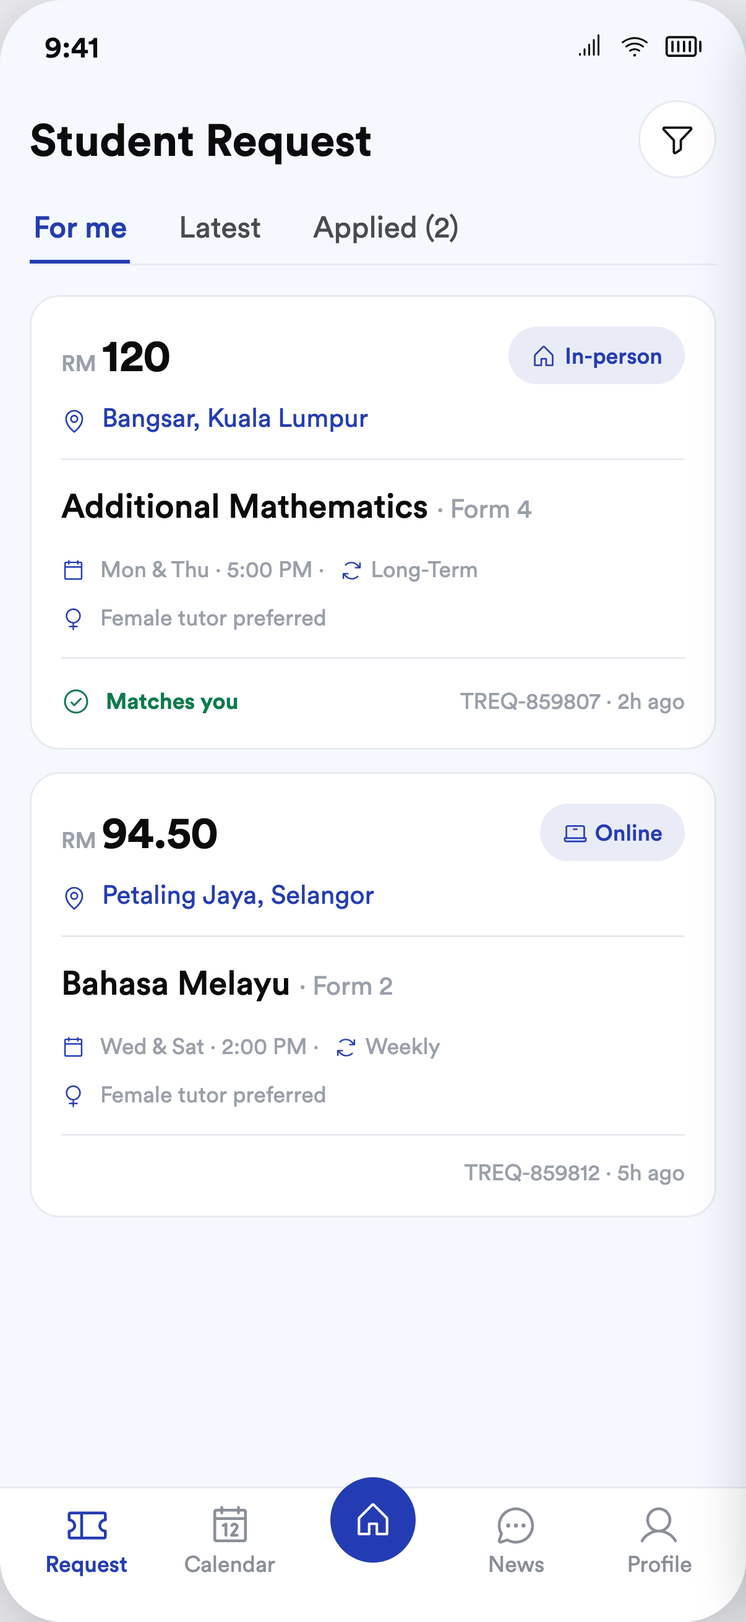
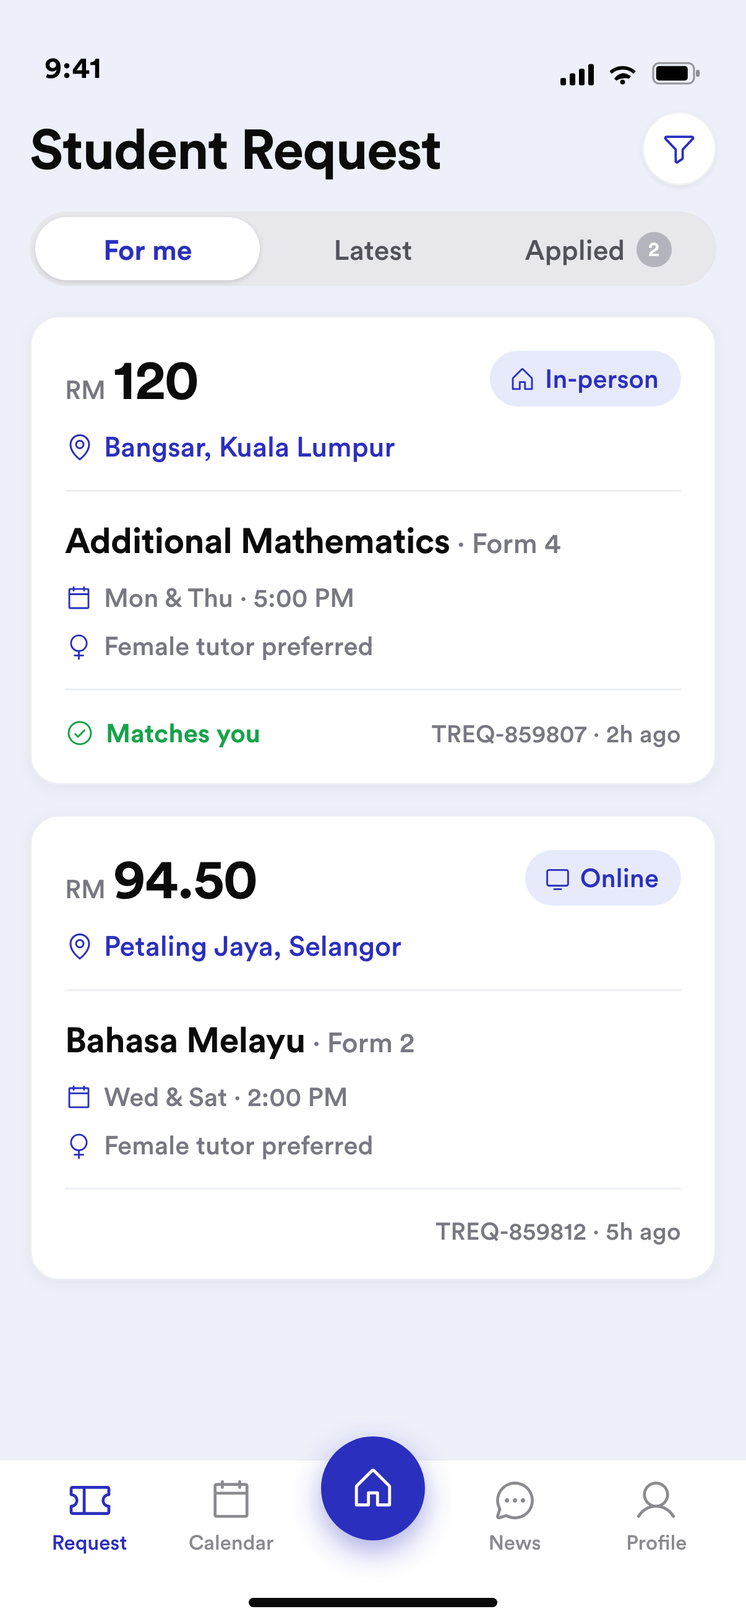
composition pilot: tutor-requests rebuilt 100% from the element kit (locked 10-Jul)
- tutorrequests-kit.html published; supersedes the pre-kit feed as the current
  design (pre-kit participate screens reconcile in a dedicated session)
- compare: TutorRequests pair repointed to the kit build (full-page shot);
  superseded pre-kit state frames removed (140 items)
- Patterns gains 'Kit composition' - the 4 founder-locked composition canon
  rules (kit segmented for feed tabs, term off feed cards, money leads,
  canonical tokens only)

diff --git a/compare/index.html b/compare/index.html
@@ -15,7 +15,7 @@
   </head>
   <body>
     <div id="app"></div>
-    <script type="text/javascript">window['__reg__'] = {"type":"danger","hasNew":true,"newItems":[{"raw":"acquire-Splash.png","encoded":"acquire-Splash.png"},{"raw":"activate-SetHomeLocationPin--autofilled.png","encoded":"activate-SetHomeLocationPin--autofilled.png"},{"raw":"activate-SetHomeLocationPin--picker.png","encoded":"activate-SetHomeLocationPin--picker.png"},{"raw":"activate-SetHomeLocationPin.png","encoded":"activate-SetHomeLocationPin.png"},{"raw":"activate-SetTeachingArea--online.png","encoded":"activate-SetTeachingArea--online.png"},{"raw":"activate-SetTeachingArea--set-area.png","encoded":"activate-SetTeachingArea--set-area.png"},{"raw":"activate-SetTeachingArea.png","encoded":"activate-SetTeachingArea.png"},{"raw":"deliver-ActiveClassClockIn.png","encoded":"deliver-ActiveClassClockIn.png"},{"raw":"deliver-ActiveClassClockOut.png","encoded":"deliver-ActiveClassClockOut.png"},{"raw":"deliver-ActiveClassDone.png","encoded":"deliver-ActiveClassDone.png"},{"raw":"deliver-ActiveClassPreClass.png","encoded":"deliver-ActiveClassPreClass.png"},{"raw":"deliver-CameraScreen.png","encoded":"deliver-CameraScreen.png"},{"raw":"participate-ApplyConfirmSheet.png","encoded":"participate-ApplyConfirmSheet.png"},{"raw":"participate-LocationPinSheet.png","encoded":"participate-LocationPinSheet.png"},{"raw":"participate-SubjectPicker.png","encoded":"participate-SubjectPicker.png"}],"hasDeleted":false,"deletedItems":[],"hasPassed":false,"passedItems":[],"hasFailed":true,"failedItems":[{"raw":"acquire-Login--filled-busy.png","encoded":"acquire-Login--filled-busy.png"},{"raw":"acquire-Login--invalid.png","encoded":"acquire-Login--invalid.png"},{"raw":"acquire-Login--login-mode.png","encoded":"acquire-Login--login-mode.png"},{"raw":"acquire-Login.png","encoded":"acquire-Login.png"},{"raw":"acquire-OnBoarding--slide-2.png","encoded":"acquire-OnBoarding--slide-2.png"},{"raw":"acquire-OnBoarding--slide-3.png","encoded":"acquire-OnBoarding--slide-3.png"},{"raw":"acquire-OnBoarding.png","encoded":"acquire-OnBoarding.png"},{"raw":"acquire-VerifyCode--counting.png","encoded":"acquire-VerifyCode--counting.png"},{"raw":"acquire-VerifyCode--verifying.png","encoded":"acquire-VerifyCode--verifying.png"},{"raw":"acquire-VerifyCode--wrong-otp.png","encoded":"acquire-VerifyCode--wrong-otp.png"},{"raw":"acquire-VerifyCode.png","encoded":"acquire-VerifyCode.png"},{"raw":"activate-AvailabilitySlots.png","encoded":"activate-AvailabilitySlots.png"},{"raw":"activate-BioDetails.png","encoded":"activate-BioDetails.png"},{"raw":"activate-ConsentGate.png","encoded":"activate-ConsentGate.png"},{"raw":"activate-EducationDetails.png","encoded":"activate-EducationDetails.png"},{"raw":"activate-EmergencyContact.png","encoded":"activate-EmergencyContact.png"},{"raw":"activate-IntroVideoUpload.png","encoded":"activate-IntroVideoUpload.png"},{"raw":"activate-ParentApprovalConfirmation.png","encoded":"activate-ParentApprovalConfirmation.png"},{"raw":"activate-ServicePreferenceStep1--first-run.png","encoded":"activate-ServicePreferenceStep1--first-run.png"},{"raw":"activate-ServicePreferenceStep1.png","encoded":"activate-ServicePreferenceStep1.png"},{"raw":"activate-ServicePreferenceStep2.png","encoded":"activate-ServicePreferenceStep2.png"},{"raw":"activate-TutorVerificationProcess--complete.png","encoded":"activate-TutorVerificationProcess--complete.png"},{"raw":"activate-TutorVerificationProcess--under-review.png","encoded":"activate-TutorVerificationProcess--under-review.png"},{"raw":"activate-TutorVerificationProcess.png","encoded":"activate-TutorVerificationProcess.png"},{"raw":"activate-UnverifyScreen.png","encoded":"activate-UnverifyScreen.png"},{"raw":"activate-UpdateProfile--arrival.png","encoded":"activate-UpdateProfile--arrival.png"},{"raw":"activate-UpdateProfile.png","encoded":"activate-UpdateProfile.png"},{"raw":"activate-VerificationDocumentsUpload.png","encoded":"activate-VerificationDocumentsUpload.png"},{"raw":"activate-VerificationSubmittedSuccess.png","encoded":"activate-VerificationSubmittedSuccess.png"},{"raw":"deliver-ActiveClass.png","encoded":"deliver-ActiveClass.png"},{"raw":"deliver-AddClassSchedule--manual-dates.png","encoded":"deliver-AddClassSchedule--manual-dates.png"},{"raw":"deliver-AddClassSchedule--pattern-builder.png","encoded":"deliver-AddClassSchedule--pattern-builder.png"},{"raw":"deliver-AddClassSchedule--pattern-clash.png","encoded":"deliver-AddClassSchedule--pattern-clash.png"},{"raw":"deliver-AddClassSchedule--schedule-suggestion.png","encoded":"deliver-AddClassSchedule--schedule-suggestion.png"},{"raw":"deliver-AddClassSchedule--student-picker.png","encoded":"deliver-AddClassSchedule--student-picker.png"},{"raw":"deliver-AddClassSchedule--success.png","encoded":"deliver-AddClassSchedule--success.png"},{"raw":"deliver-AddClassSchedule.png","encoded":"deliver-AddClassSchedule.png"},{"raw":"deliver-BackdateEscalationSuccess.png","encoded":"deliver-BackdateEscalationSuccess.png"},{"raw":"deliver-ClassDetailByNotification.png","encoded":"deliver-ClassDetailByNotification.png"},{"raw":"deliver-ClassPostponeSuccess.png","encoded":"deliver-ClassPostponeSuccess.png"},{"raw":"deliver-ClassRecordFilter.png","encoded":"deliver-ClassRecordFilter.png"},{"raw":"deliver-ClassRecords--filtered-empty.png","encoded":"deliver-ClassRecords--filtered-empty.png"},{"raw":"deliver-ClassRecords--not-found.png","encoded":"deliver-ClassRecords--not-found.png"},{"raw":"deliver-ClassRecords.png","encoded":"deliver-ClassRecords.png"},{"raw":"deliver-ClassSchedule--day-with-class.png","encoded":"deliver-ClassSchedule--day-with-class.png"},{"raw":"deliver-ClassSchedule--empty-day.png","encoded":"deliver-ClassSchedule--empty-day.png"},{"raw":"deliver-ClassSchedule--month-expanded.png","encoded":"deliver-ClassSchedule--month-expanded.png"},{"raw":"deliver-ClassSchedule--past-day-done.png","encoded":"deliver-ClassSchedule--past-day-done.png"},{"raw":"deliver-ClassSchedule.png","encoded":"deliver-ClassSchedule.png"},{"raw":"deliver-ClassScheduleAdded.png","encoded":"deliver-ClassScheduleAdded.png"},{"raw":"deliver-EditPostponedClass.png","encoded":"deliver-EditPostponedClass.png"},{"raw":"deliver-ExtraClass.png","encoded":"deliver-ExtraClass.png"},{"raw":"deliver-StudentTasks--reports-filter.png","encoded":"deliver-StudentTasks--reports-filter.png"},{"raw":"earn-MyReferralEarnings.png","encoded":"earn-MyReferralEarnings.png"},{"raw":"earn-Payment--awaiting.png","encoded":"earn-Payment--awaiting.png"},{"raw":"earn-Payment--filter-sheet.png","encoded":"earn-Payment--filter-sheet.png"},{"raw":"earn-Payment--history-month.png","encoded":"earn-Payment--history-month.png"},{"raw":"earn-Payment.png","encoded":"earn-Payment.png"},{"raw":"earn-PaymentLedger.png","encoded":"earn-PaymentLedger.png"},{"raw":"earn-PendingEarningsDetail.png","encoded":"earn-PendingEarningsDetail.png"},{"raw":"earn-ReferFriend.png","encoded":"earn-ReferFriend.png"},{"raw":"engage-Home.png","encoded":"engage-Home.png"},{"raw":"news-News--empty.png","encoded":"news-News--empty.png"},{"raw":"news-News.png","encoded":"news-News.png"},{"raw":"news-NewsDetails.png","encoded":"news-NewsDetails.png"},{"raw":"news-Notifications--empty.png","encoded":"news-Notifications--empty.png"},{"raw":"news-Notifications.png","encoded":"news-Notifications.png"},{"raw":"participate-JTDetailByNotification.png","encoded":"participate-JTDetailByNotification.png"},{"raw":"participate-MyRequestsList--empty.png","encoded":"participate-MyRequestsList--empty.png"},{"raw":"participate-MyRequestsList.png","encoded":"participate-MyRequestsList.png"},{"raw":"participate-RecommendedRequestDetail.png","encoded":"participate-RecommendedRequestDetail.png"},{"raw":"participate-RequestDetailById.png","encoded":"participate-RequestDetailById.png"},{"raw":"participate-RequestDetails.png","encoded":"participate-RequestDetails.png"},{"raw":"participate-RequestFilters--location-open.png","encoded":"participate-RequestFilters--location-open.png"},{"raw":"participate-RequestFilters--subject-open.png","encoded":"participate-RequestFilters--subject-open.png"},{"raw":"participate-RequestFilters.png","encoded":"participate-RequestFilters.png"},{"raw":"participate-TutorAppliedRequestDetails--unavailable.png","encoded":"participate-TutorAppliedRequestDetails--unavailable.png"},{"raw":"participate-TutorAppliedRequestDetails.png","encoded":"participate-TutorAppliedRequestDetails.png"},{"raw":"participate-TutorRequests--new-chip.png","encoded":"participate-TutorRequests--new-chip.png"},{"raw":"participate-TutorRequests--scrolled.png","encoded":"participate-TutorRequests--scrolled.png"},{"raw":"participate-TutorRequests.png","encoded":"participate-TutorRequests.png"},{"raw":"participate-TutorTaskList--empty.png","encoded":"participate-TutorTaskList--empty.png"},{"raw":"participate-TutorTaskList.png","encoded":"participate-TutorTaskList.png"},{"raw":"profile-Profile--complete.png","encoded":"profile-Profile--complete.png"},{"raw":"profile-Profile.png","encoded":"profile-Profile.png"},{"raw":"profile-ProfileMenu--new-tutor.png","encoded":"profile-ProfileMenu--new-tutor.png"},{"raw":"profile-ProfileMenu.png","encoded":"profile-ProfileMenu.png"},{"raw":"profile-Status--reason-picker.png","encoded":"profile-Status--reason-picker.png"},{"raw":"profile-Status.png","encoded":"profile-Status.png"},{"raw":"report-EvaluationReport--review.png","encoded":"report-EvaluationReport--review.png"},{"raw":"report-EvaluationReport--step-1.png","encoded":"report-EvaluationReport--step-1.png"},{"raw":"report-EvaluationReport--step-2.png","encoded":"report-EvaluationReport--step-2.png"},{"raw":"report-EvaluationReport--step-3.png","encoded":"report-EvaluationReport--step-3.png"},{"raw":"report-EvaluationReport.png","encoded":"report-EvaluationReport.png"},{"raw":"report-EvaluationReportSuccess.png","encoded":"report-EvaluationReportSuccess.png"},{"raw":"report-ProgressReport--parent-summary.png","encoded":"report-ProgressReport--parent-summary.png"},{"raw":"report-ProgressReport--step-1-observation.png","encoded":"report-ProgressReport--step-1-observation.png"},{"raw":"report-ProgressReport--step-2-performance.png","encoded":"report-ProgressReport--step-2-performance.png"},{"raw":"report-ProgressReport--step-3-attitude.png","encoded":"report-ProgressReport--step-3-attitude.png"},{"raw":"report-ProgressReport.png","encoded":"report-ProgressReport.png"},{"raw":"report-ProgressReportSuccess.png","encoded":"report-ProgressReportSuccess.png"},{"raw":"report-StudentReport--empty.png","encoded":"report-StudentReport--empty.png"},{"raw":"report-StudentReport.png","encoded":"report-StudentReport.png"},{"raw":"static-FAQs--topic-expanded.png","encoded":"static-FAQs--topic-expanded.png"},{"raw":"static-FAQs.png","encoded":"static-FAQs.png"},{"raw":"static-PrivacyPolicy.png","encoded":"static-PrivacyPolicy.png"},{"raw":"static-TermAndConditions.png","encoded":"static-TermAndConditions.png"},{"raw":"students-StudentList--empty.png","encoded":"students-StudentList--empty.png"},{"raw":"students-StudentList.png","encoded":"students-StudentList.png"},{"raw":"students-StudentsDetails--online.png","encoded":"students-StudentsDetails--online.png"},{"raw":"students-StudentsDetails.png","encoded":"students-StudentsDetails.png"},{"raw":"support-ApplicationStatusDetail--suspended.png","encoded":"support-ApplicationStatusDetail--suspended.png"},{"raw":"support-ApplicationStatusDetail.png","encoded":"support-ApplicationStatusDetail.png"},{"raw":"support-Discouragement--brand-new.png","encoded":"support-Discouragement--brand-new.png"},{"raw":"support-Discouragement--delete-account.png","encoded":"support-Discouragement--delete-account.png"},{"raw":"support-Discouragement.png","encoded":"support-Discouragement.png"},{"raw":"support-SubmitRequestClassReschedule--request-sheet.png","encoded":"support-SubmitRequestClassReschedule--request-sheet.png"},{"raw":"support-SubmitRequestClassReschedule.png","encoded":"support-SubmitRequestClassReschedule.png"},{"raw":"support-SubmitRequestGeneralComplaint--category-sheet.png","encoded":"support-SubmitRequestGeneralComplaint--category-sheet.png"},{"raw":"support-SubmitRequestGeneralComplaint.png","encoded":"support-SubmitRequestGeneralComplaint.png"},{"raw":"support-SubmitRequestPicker--unverified.png","encoded":"support-SubmitRequestPicker--unverified.png"},{"raw":"support-SubmitRequestPicker.png","encoded":"support-SubmitRequestPicker.png"},{"raw":"support-SubmitRequestResignation--confirm.png","encoded":"support-SubmitRequestResignation--confirm.png"},{"raw":"support-SubmitRequestResignation--guard.png","encoded":"support-SubmitRequestResignation--guard.png"},{"raw":"support-SubmitRequestResignation.png","encoded":"support-SubmitRequestResignation.png"},{"raw":"support-TicketDetail--approved.png","encoded":"support-TicketDetail--approved.png"},{"raw":"support-TicketDetail.png","encoded":"support-TicketDetail.png"}],"actualDir":"after","expectedDir":"before","diffDir":"diff","diffImageExtention":"png","ximgdiffConfig":{"enabled":false,"workerUrl":"./worker.js"}};</script>
+    <script type="text/javascript">window['__reg__'] = {"type":"danger","hasNew":true,"newItems":[{"raw":"acquire-Splash.png","encoded":"acquire-Splash.png"},{"raw":"activate-SetHomeLocationPin--autofilled.png","encoded":"activate-SetHomeLocationPin--autofilled.png"},{"raw":"activate-SetHomeLocationPin--picker.png","encoded":"activate-SetHomeLocationPin--picker.png"},{"raw":"activate-SetHomeLocationPin.png","encoded":"activate-SetHomeLocationPin.png"},{"raw":"activate-SetTeachingArea--online.png","encoded":"activate-SetTeachingArea--online.png"},{"raw":"activate-SetTeachingArea--set-area.png","encoded":"activate-SetTeachingArea--set-area.png"},{"raw":"activate-SetTeachingArea.png","encoded":"activate-SetTeachingArea.png"},{"raw":"deliver-ActiveClassClockIn.png","encoded":"deliver-ActiveClassClockIn.png"},{"raw":"deliver-ActiveClassClockOut.png","encoded":"deliver-ActiveClassClockOut.png"},{"raw":"deliver-ActiveClassDone.png","encoded":"deliver-ActiveClassDone.png"},{"raw":"deliver-ActiveClassPreClass.png","encoded":"deliver-ActiveClassPreClass.png"},{"raw":"deliver-CameraScreen.png","encoded":"deliver-CameraScreen.png"},{"raw":"participate-ApplyConfirmSheet.png","encoded":"participate-ApplyConfirmSheet.png"},{"raw":"participate-LocationPinSheet.png","encoded":"participate-LocationPinSheet.png"},{"raw":"participate-SubjectPicker.png","encoded":"participate-SubjectPicker.png"}],"hasDeleted":false,"deletedItems":[],"hasPassed":false,"passedItems":[],"hasFailed":true,"failedItems":[{"raw":"acquire-Login--filled-busy.png","encoded":"acquire-Login--filled-busy.png"},{"raw":"acquire-Login--invalid.png","encoded":"acquire-Login--invalid.png"},{"raw":"acquire-Login--login-mode.png","encoded":"acquire-Login--login-mode.png"},{"raw":"acquire-Login.png","encoded":"acquire-Login.png"},{"raw":"acquire-OnBoarding--slide-2.png","encoded":"acquire-OnBoarding--slide-2.png"},{"raw":"acquire-OnBoarding--slide-3.png","encoded":"acquire-OnBoarding--slide-3.png"},{"raw":"acquire-OnBoarding.png","encoded":"acquire-OnBoarding.png"},{"raw":"acquire-VerifyCode--counting.png","encoded":"acquire-VerifyCode--counting.png"},{"raw":"acquire-VerifyCode--verifying.png","encoded":"acquire-VerifyCode--verifying.png"},{"raw":"acquire-VerifyCode--wrong-otp.png","encoded":"acquire-VerifyCode--wrong-otp.png"},{"raw":"acquire-VerifyCode.png","encoded":"acquire-VerifyCode.png"},{"raw":"activate-AvailabilitySlots.png","encoded":"activate-AvailabilitySlots.png"},{"raw":"activate-BioDetails.png","encoded":"activate-BioDetails.png"},{"raw":"activate-ConsentGate.png","encoded":"activate-ConsentGate.png"},{"raw":"activate-EducationDetails.png","encoded":"activate-EducationDetails.png"},{"raw":"activate-EmergencyContact.png","encoded":"activate-EmergencyContact.png"},{"raw":"activate-IntroVideoUpload.png","encoded":"activate-IntroVideoUpload.png"},{"raw":"activate-ParentApprovalConfirmation.png","encoded":"activate-ParentApprovalConfirmation.png"},{"raw":"activate-ServicePreferenceStep1--first-run.png","encoded":"activate-ServicePreferenceStep1--first-run.png"},{"raw":"activate-ServicePreferenceStep1.png","encoded":"activate-ServicePreferenceStep1.png"},{"raw":"activate-ServicePreferenceStep2.png","encoded":"activate-ServicePreferenceStep2.png"},{"raw":"activate-TutorVerificationProcess--complete.png","encoded":"activate-TutorVerificationProcess--complete.png"},{"raw":"activate-TutorVerificationProcess--under-review.png","encoded":"activate-TutorVerificationProcess--under-review.png"},{"raw":"activate-TutorVerificationProcess.png","encoded":"activate-TutorVerificationProcess.png"},{"raw":"activate-UnverifyScreen.png","encoded":"activate-UnverifyScreen.png"},{"raw":"activate-UpdateProfile--arrival.png","encoded":"activate-UpdateProfile--arrival.png"},{"raw":"activate-UpdateProfile.png","encoded":"activate-UpdateProfile.png"},{"raw":"activate-VerificationDocumentsUpload.png","encoded":"activate-VerificationDocumentsUpload.png"},{"raw":"activate-VerificationSubmittedSuccess.png","encoded":"activate-VerificationSubmittedSuccess.png"},{"raw":"deliver-ActiveClass.png","encoded":"deliver-ActiveClass.png"},{"raw":"deliver-AddClassSchedule--manual-dates.png","encoded":"deliver-AddClassSchedule--manual-dates.png"},{"raw":"deliver-AddClassSchedule--pattern-builder.png","encoded":"deliver-AddClassSchedule--pattern-builder.png"},{"raw":"deliver-AddClassSchedule--pattern-clash.png","encoded":"deliver-AddClassSchedule--pattern-clash.png"},{"raw":"deliver-AddClassSchedule--schedule-suggestion.png","encoded":"deliver-AddClassSchedule--schedule-suggestion.png"},{"raw":"deliver-AddClassSchedule--student-picker.png","encoded":"deliver-AddClassSchedule--student-picker.png"},{"raw":"deliver-AddClassSchedule--success.png","encoded":"deliver-AddClassSchedule--success.png"},{"raw":"deliver-AddClassSchedule.png","encoded":"deliver-AddClassSchedule.png"},{"raw":"deliver-BackdateEscalationSuccess.png","encoded":"deliver-BackdateEscalationSuccess.png"},{"raw":"deliver-ClassDetailByNotification.png","encoded":"deliver-ClassDetailByNotification.png"},{"raw":"deliver-ClassPostponeSuccess.png","encoded":"deliver-ClassPostponeSuccess.png"},{"raw":"deliver-ClassRecordFilter.png","encoded":"deliver-ClassRecordFilter.png"},{"raw":"deliver-ClassRecords--filtered-empty.png","encoded":"deliver-ClassRecords--filtered-empty.png"},{"raw":"deliver-ClassRecords--not-found.png","encoded":"deliver-ClassRecords--not-found.png"},{"raw":"deliver-ClassRecords.png","encoded":"deliver-ClassRecords.png"},{"raw":"deliver-ClassSchedule--day-with-class.png","encoded":"deliver-ClassSchedule--day-with-class.png"},{"raw":"deliver-ClassSchedule--empty-day.png","encoded":"deliver-ClassSchedule--empty-day.png"},{"raw":"deliver-ClassSchedule--month-expanded.png","encoded":"deliver-ClassSchedule--month-expanded.png"},{"raw":"deliver-ClassSchedule--past-day-done.png","encoded":"deliver-ClassSchedule--past-day-done.png"},{"raw":"deliver-ClassSchedule.png","encoded":"deliver-ClassSchedule.png"},{"raw":"deliver-ClassScheduleAdded.png","encoded":"deliver-ClassScheduleAdded.png"},{"raw":"deliver-EditPostponedClass.png","encoded":"deliver-EditPostponedClass.png"},{"raw":"deliver-ExtraClass.png","encoded":"deliver-ExtraClass.png"},{"raw":"deliver-StudentTasks--reports-filter.png","encoded":"deliver-StudentTasks--reports-filter.png"},{"raw":"earn-MyReferralEarnings.png","encoded":"earn-MyReferralEarnings.png"},{"raw":"earn-Payment--awaiting.png","encoded":"earn-Payment--awaiting.png"},{"raw":"earn-Payment--filter-sheet.png","encoded":"earn-Payment--filter-sheet.png"},{"raw":"earn-Payment--history-month.png","encoded":"earn-Payment--history-month.png"},{"raw":"earn-Payment.png","encoded":"earn-Payment.png"},{"raw":"earn-PaymentLedger.png","encoded":"earn-PaymentLedger.png"},{"raw":"earn-PendingEarningsDetail.png","encoded":"earn-PendingEarningsDetail.png"},{"raw":"earn-ReferFriend.png","encoded":"earn-ReferFriend.png"},{"raw":"engage-Home.png","encoded":"engage-Home.png"},{"raw":"news-News--empty.png","encoded":"news-News--empty.png"},{"raw":"news-News.png","encoded":"news-News.png"},{"raw":"news-NewsDetails.png","encoded":"news-NewsDetails.png"},{"raw":"news-Notifications--empty.png","encoded":"news-Notifications--empty.png"},{"raw":"news-Notifications.png","encoded":"news-Notifications.png"},{"raw":"participate-JTDetailByNotification.png","encoded":"participate-JTDetailByNotification.png"},{"raw":"participate-MyRequestsList--empty.png","encoded":"participate-MyRequestsList--empty.png"},{"raw":"participate-MyRequestsList.png","encoded":"participate-MyRequestsList.png"},{"raw":"participate-RecommendedRequestDetail.png","encoded":"participate-RecommendedRequestDetail.png"},{"raw":"participate-RequestDetailById.png","encoded":"participate-RequestDetailById.png"},{"raw":"participate-RequestDetails.png","encoded":"participate-RequestDetails.png"},{"raw":"participate-RequestFilters--location-open.png","encoded":"participate-RequestFilters--location-open.png"},{"raw":"participate-RequestFilters--subject-open.png","encoded":"participate-RequestFilters--subject-open.png"},{"raw":"participate-RequestFilters.png","encoded":"participate-RequestFilters.png"},{"raw":"participate-TutorAppliedRequestDetails--unavailable.png","encoded":"participate-TutorAppliedRequestDetails--unavailable.png"},{"raw":"participate-TutorAppliedRequestDetails.png","encoded":"participate-TutorAppliedRequestDetails.png"},{"raw":"participate-TutorRequests.png","encoded":"participate-TutorRequests.png"},{"raw":"participate-TutorTaskList--empty.png","encoded":"participate-TutorTaskList--empty.png"},{"raw":"participate-TutorTaskList.png","encoded":"participate-TutorTaskList.png"},{"raw":"profile-Profile--complete.png","encoded":"profile-Profile--complete.png"},{"raw":"profile-Profile.png","encoded":"profile-Profile.png"},{"raw":"profile-ProfileMenu--new-tutor.png","encoded":"profile-ProfileMenu--new-tutor.png"},{"raw":"profile-ProfileMenu.png","encoded":"profile-ProfileMenu.png"},{"raw":"profile-Status--reason-picker.png","encoded":"profile-Status--reason-picker.png"},{"raw":"profile-Status.png","encoded":"profile-Status.png"},{"raw":"report-EvaluationReport--review.png","encoded":"report-EvaluationReport--review.png"},{"raw":"report-EvaluationReport--step-1.png","encoded":"report-EvaluationReport--step-1.png"},{"raw":"report-EvaluationReport--step-2.png","encoded":"report-EvaluationReport--step-2.png"},{"raw":"report-EvaluationReport--step-3.png","encoded":"report-EvaluationReport--step-3.png"},{"raw":"report-EvaluationReport.png","encoded":"report-EvaluationReport.png"},{"raw":"report-EvaluationReportSuccess.png","encoded":"report-EvaluationReportSuccess.png"},{"raw":"report-ProgressReport--parent-summary.png","encoded":"report-ProgressReport--parent-summary.png"},{"raw":"report-ProgressReport--step-1-observation.png","encoded":"report-ProgressReport--step-1-observation.png"},{"raw":"report-ProgressReport--step-2-performance.png","encoded":"report-ProgressReport--step-2-performance.png"},{"raw":"report-ProgressReport--step-3-attitude.png","encoded":"report-ProgressReport--step-3-attitude.png"},{"raw":"report-ProgressReport.png","encoded":"report-ProgressReport.png"},{"raw":"report-ProgressReportSuccess.png","encoded":"report-ProgressReportSuccess.png"},{"raw":"report-StudentReport--empty.png","encoded":"report-StudentReport--empty.png"},{"raw":"report-StudentReport.png","encoded":"report-StudentReport.png"},{"raw":"static-FAQs--topic-expanded.png","encoded":"static-FAQs--topic-expanded.png"},{"raw":"static-FAQs.png","encoded":"static-FAQs.png"},{"raw":"static-PrivacyPolicy.png","encoded":"static-PrivacyPolicy.png"},{"raw":"static-TermAndConditions.png","encoded":"static-TermAndConditions.png"},{"raw":"students-StudentList--empty.png","encoded":"students-StudentList--empty.png"},{"raw":"students-StudentList.png","encoded":"students-StudentList.png"},{"raw":"students-StudentsDetails--online.png","encoded":"students-StudentsDetails--online.png"},{"raw":"students-StudentsDetails.png","encoded":"students-StudentsDetails.png"},{"raw":"support-ApplicationStatusDetail--suspended.png","encoded":"support-ApplicationStatusDetail--suspended.png"},{"raw":"support-ApplicationStatusDetail.png","encoded":"support-ApplicationStatusDetail.png"},{"raw":"support-Discouragement--brand-new.png","encoded":"support-Discouragement--brand-new.png"},{"raw":"support-Discouragement--delete-account.png","encoded":"support-Discouragement--delete-account.png"},{"raw":"support-Discouragement.png","encoded":"support-Discouragement.png"},{"raw":"support-SubmitRequestClassReschedule--request-sheet.png","encoded":"support-SubmitRequestClassReschedule--request-sheet.png"},{"raw":"support-SubmitRequestClassReschedule.png","encoded":"support-SubmitRequestClassReschedule.png"},{"raw":"support-SubmitRequestGeneralComplaint--category-sheet.png","encoded":"support-SubmitRequestGeneralComplaint--category-sheet.png"},{"raw":"support-SubmitRequestGeneralComplaint.png","encoded":"support-SubmitRequestGeneralComplaint.png"},{"raw":"support-SubmitRequestPicker--unverified.png","encoded":"support-SubmitRequestPicker--unverified.png"},{"raw":"support-SubmitRequestPicker.png","encoded":"support-SubmitRequestPicker.png"},{"raw":"support-SubmitRequestResignation--confirm.png","encoded":"support-SubmitRequestResignation--confirm.png"},{"raw":"support-SubmitRequestResignation--guard.png","encoded":"support-SubmitRequestResignation--guard.png"},{"raw":"support-SubmitRequestResignation.png","encoded":"support-SubmitRequestResignation.png"},{"raw":"support-TicketDetail--approved.png","encoded":"support-TicketDetail--approved.png"},{"raw":"support-TicketDetail.png","encoded":"support-TicketDetail.png"}],"actualDir":"after","expectedDir":"before","diffDir":"diff","diffImageExtention":"png","ximgdiffConfig":{"enabled":false,"workerUrl":"./worker.js"}};</script>
     <script type="text/javascript">(function(xn){typeof define=="function"&&define.amd?define(xn):xn()})(function(){"use strict";var xn=typeof globalThis<"u"?globalThis:typeof window<"u"?window:typeof global<"u"?global:typeof self<"u"?self:{};function $i(e){return e&&e.__esModule&&Object.prototype.hasOwnProperty.call(e,"default")?e.default:e}var Rf={exports:{}},qa={},Of={exports:{}},ne={};/**
  * @license React
  * react.production.min.js

diff --git a/tutorrequests-kit.html b/tutorrequests-kit.html
@@ -1,0 +1,139 @@
+<!doctype html><meta charset="utf-8">
+<style>
+@font-face{font-family:'Circular Std';font-weight:400;src:url("file:///Users/syamilyusoff/code/sifututor_tutor/android/app/src/main/assets/fonts/Circular Std Book.ttf")}
+@font-face{font-family:'Circular Std';font-weight:500;src:url("file:///Users/syamilyusoff/code/sifututor_tutor/android/app/src/main/assets/fonts/Circular Std Medium.ttf")}
+@font-face{font-family:'Circular Std';font-weight:700;src:url("file:///Users/syamilyusoff/code/sifututor_tutor/android/app/src/main/assets/fonts/Circular Std Bold.ttf")}
+*{margin:0;padding:0;box-sizing:border-box;-webkit-font-smoothing:antialiased}
+:root{
+ --indigo:#2B2FBE;--ink:#0B0B0C;--sec:#52525B;--meta:#787882;--green:#16A34A;
+ --canvas:#EDF0F9;--card:#FFFFFF;--pill:#E7EAFB;--hair:#EEF0F4;--track:#E7E7EC;
+ --badgeoff:#B4B4BC;--tabgrey:#8A8A8F;--cardborder:#ECEEF3;
+ --font:'Circular Std',-apple-system,'SF Pro Text',system-ui,sans-serif;
+}
+html,body{margin:0;padding:0;width:402px;overflow-x:hidden}
+body{background:#3a3a3c;font-family:var(--font)}
+.frame{width:402px;height:874px;background:var(--canvas);position:relative;overflow:hidden;display:flex;flex-direction:column}
+
+/* status bar */
+.status{height:54px;flex:none;display:flex;align-items:flex-end;justify-content:space-between;padding:0 24px 8px}
+.status .time{font-weight:700;font-size:16px;color:#000;letter-spacing:.2px}
+.status .sys{display:flex;align-items:center;gap:7px}
+
+/* header */
+.head{flex:none;display:flex;align-items:center;justify-content:space-between;padding:6px 16px 14px}
+.head h1{font-weight:700;font-size:30px;color:var(--ink);letter-spacing:-.6px}
+.chip{width:40px;height:40px;border-radius:999px;background:#fff;border:1px solid var(--hair);
+ box-shadow:0 1px 3px rgba(0,0,0,.06);display:flex;align-items:center;justify-content:center}
+
+/* segmented tabs (kit default — 2-3 fixed views) */
+.tabs{flex:none;margin:0 16px 14px;background:var(--track);border-radius:999px;padding:3px;display:flex;height:40px}
+.seg{flex:1;display:flex;align-items:center;justify-content:center;gap:6px;border-radius:999px;font-weight:500;font-size:15px;color:var(--sec)}
+.seg.on{background:#fff;color:var(--indigo);font-weight:700;box-shadow:0 1px 3px rgba(0,0,0,.13)}
+.cbadge{min-width:19px;height:19px;padding:0 5px;border-radius:999px;background:var(--badgeoff);color:#fff;font-weight:700;font-size:11px;display:flex;align-items:center;justify-content:center}
+
+/* card list */
+.scroll{flex:1;overflow:hidden;padding:2px 16px 0}
+.card{background:var(--card);border:1px solid var(--cardborder);border-radius:16px;
+ box-shadow:0 2px 10px rgba(0,0,0,.05);padding:18px;margin-bottom:16px}
+.moneyrow{display:flex;align-items:flex-start;justify-content:space-between}
+.money{display:flex;align-items:baseline;gap:4px}
+.money .rm{font-weight:500;font-size:14px;color:var(--meta)}
+.money .val{font-weight:700;font-size:30px;color:var(--ink);letter-spacing:-.5px;line-height:1}
+.mode{display:inline-flex;align-items:center;gap:5px;background:var(--pill);color:var(--indigo);
+ border-radius:999px;padding:6px 12px 6px 10px;font-weight:500;font-size:14px}
+.loc{display:flex;align-items:center;gap:5px;margin-top:12px;color:var(--indigo);font-weight:500;font-size:15px}
+.hair{height:1px;background:var(--hair);margin:14px 0}
+.subj{font-weight:700;font-size:19px;color:var(--ink);letter-spacing:-.2px}
+.subj .lvl{font-weight:500;font-size:15px;color:var(--meta);letter-spacing:0}
+.meta{display:flex;align-items:center;gap:6px;flex-wrap:wrap;color:var(--meta);font-weight:500;font-size:14px;margin-top:10px}
+.meta.m2{margin-top:8px}
+.foot{display:flex;align-items:center;justify-content:space-between}
+.match{display:flex;align-items:center;gap:6px;color:var(--green);font-weight:700;font-size:14px}
+.treq{color:var(--meta);font-weight:500;font-size:13px;letter-spacing:.1px}
+
+/* tab bar */
+.tabbar{flex:none;height:88px;background:#fff;border-top:1px solid var(--cardborder);
+ display:flex;align-items:flex-start;justify-content:space-around;padding:9px 10px 0;position:relative}
+.tb{display:flex;flex-direction:column;align-items:center;gap:3px;width:60px}
+.tb .lb{font-weight:500;font-size:11px;color:var(--tabgrey)}
+.tb.on .lb{color:var(--indigo)}
+.tb.center{margin-top:-22px;gap:0}
+.fab{width:56px;height:56px;border-radius:999px;background:var(--indigo);
+ display:flex;align-items:center;justify-content:center;box-shadow:0 6px 16px rgba(43,47,190,.4)}
+.homebar{position:absolute;bottom:8px;left:50%;transform:translateX(-50%);width:134px;height:5px;border-radius:3px;background:#0B0B0C}
+svg{display:block}
+</style>
+
+<div class="frame">
+ <!-- STATUS -->
+ <div class="status">
+  <div class="time">9:41</div>
+  <div class="sys">
+   <svg width="18" height="12" viewBox="0 0 18 12"><rect x="0" y="8" width="3" height="4" rx="1" fill="#000"/><rect x="5" y="5.5" width="3" height="6.5" rx="1" fill="#000"/><rect x="10" y="3" width="3" height="9" rx="1" fill="#000"/><rect x="15" y="0.5" width="3" height="11.5" rx="1" fill="#000"/></svg>
+   <svg width="17" height="12" viewBox="0 0 17 12"><circle cx="8.5" cy="10.2" r="1.3" fill="#000"/><path d="M8.5 5.4c1.7 0 3.3.66 4.5 1.8l-1.2 1.3A4.6 4.6 0 008.5 8.3c-1.2 0-2.35.47-3.25 1.2L4 8.5A6.5 6.5 0 018.5 5.4z" fill="#000"/><path d="M8.5 1.6c2.7 0 5.2 1.05 7.05 2.85l-1.2 1.3A8.3 8.3 0 008.5 3.5 8.3 8.3 0 002.65 5.75L1.45 4.45A9.9 9.9 0 018.5 1.6z" fill="#000"/></svg>
+   <svg width="27" height="13" viewBox="0 0 27 13"><rect x="1" y="1" width="22" height="11" rx="3.2" fill="none" stroke="#000" stroke-opacity=".38"/><rect x="2.6" y="2.6" width="17" height="7.8" rx="1.6" fill="#000"/><rect x="24" y="4.6" width="2" height="3.8" rx="1" fill="#000" fill-opacity=".4"/></svg>
+  </div>
+ </div>
+
+ <!-- HEADER -->
+ <div class="head">
+  <h1>Student Request</h1>
+  <div class="chip"><svg width="20" height="20" viewBox="0 0 256 256" style="color:var(--indigo)"><path fill="currentColor" d="M230.6 49.53A15.81 15.81 0 0 0 216 40H40a16 16 0 0 0-11.81 26.76l.08.09L96 139.17V216a16 16 0 0 0 24.87 13.32l32-21.34a16 16 0 0 0 7.13-13.32v-55.49l67.74-72.32l.08-.09a15.8 15.8 0 0 0 2.78-17.23m-84.42 81.05A8 8 0 0 0 144 136v58.66L112 216v-80a8 8 0 0 0-2.16-5.47L40 56h176Z"/></svg></div>
+ </div>
+
+ <!-- SEGMENTED TABS -->
+ <div class="tabs">
+  <div class="seg on">For me</div>
+  <div class="seg">Latest</div>
+  <div class="seg">Applied <span class="cbadge">2</span></div>
+ </div>
+
+ <!-- CARD LIST -->
+ <div class="scroll">
+  <!-- CARD 1 -->
+  <div class="card">
+   <div class="moneyrow">
+    <div class="money"><span class="rm">RM</span><span class="val">120</span></div>
+    <div class="mode"><svg width="15" height="15" viewBox="0 0 256 256"><path fill="currentColor" d="m219.31 108.68l-80-80a16 16 0 0 0-22.62 0l-80 80A15.87 15.87 0 0 0 32 120v96a8 8 0 0 0 8 8h64a8 8 0 0 0 8-8v-56h32v56a8 8 0 0 0 8 8h64a8 8 0 0 0 8-8v-96a15.87 15.87 0 0 0-4.69-11.32M208 208h-48v-56a8 8 0 0 0-8-8h-48a8 8 0 0 0-8 8v56H48v-88l80-80l80 80Z"/></svg>In-person</div>
+   </div>
+   <div class="loc"><svg width="16" height="16" viewBox="0 0 256 256"><path fill="currentColor" d="M128 64a40 40 0 1 0 40 40a40 40 0 0 0-40-40m0 64a24 24 0 1 1 24-24a24 24 0 0 1-24 24m0-112a88.1 88.1 0 0 0-88 88c0 31.4 14.51 64.68 42 96.25a254.2 254.2 0 0 0 41.45 38.3a8 8 0 0 0 9.18 0a254.2 254.2 0 0 0 41.37-38.3c27.45-31.57 42-64.85 42-96.25a88.1 88.1 0 0 0-88-88m0 206c-16.53-13-72-60.75-72-118a72 72 0 0 1 144 0c0 57.23-55.47 105-72 118"/></svg>Bangsar, Kuala Lumpur</div>
+   <div class="hair"></div>
+   <div class="subj">Additional Mathematics<span class="lvl"> · Form 4</span></div>
+   <div class="meta"><svg width="15" height="15" viewBox="0 0 256 256" style="color:var(--indigo)"><path fill="currentColor" d="M208 32h-24v-8a8 8 0 0 0-16 0v8H88v-8a8 8 0 0 0-16 0v8H48a16 16 0 0 0-16 16v160a16 16 0 0 0 16 16h160a16 16 0 0 0 16-16V48a16 16 0 0 0-16-16M72 48v8a8 8 0 0 0 16 0v-8h80v8a8 8 0 0 0 16 0v-8h24v32H48V48Zm136 160H48V96h160z"/></svg><span>Mon &amp; Thu · 5:00 PM</span></div>
+   <div class="meta m2"><svg width="15" height="15" viewBox="0 0 256 256" style="color:var(--indigo)"><path fill="currentColor" d="M208 96a80 80 0 1 0-88 79.6V200H88a8 8 0 0 0 0 16h32v24a8 8 0 0 0 16 0v-24h32a8 8 0 0 0 0-16h-32v-24.4A80.11 80.11 0 0 0 208 96M64 96a64 64 0 1 1 64 64a64.07 64.07 0 0 1-64-64"/></svg><span>Female tutor preferred</span></div>
+   <div class="hair"></div>
+   <div class="foot">
+    <div class="match"><svg width="16" height="16" viewBox="0 0 256 256"><path fill="currentColor" d="M173.66 98.34a8 8 0 0 1 0 11.32l-56 56a8 8 0 0 1-11.32 0l-24-24a8 8 0 0 1 11.32-11.32L112 148.69l50.34-50.35a8 8 0 0 1 11.32 0M232 128A104 104 0 1 1 128 24a104.11 104.11 0 0 1 104 104m-16 0a88 88 0 1 0-88 88a88.1 88.1 0 0 0 88-88"/></svg>Matches you</div>
+    <div class="treq">TREQ-859807 · 2h ago</div>
+   </div>
+  </div>
+
+  <!-- CARD 2 -->
+  <div class="card">
+   <div class="moneyrow">
+    <div class="money"><span class="rm">RM</span><span class="val">94.50</span></div>
+    <div class="mode"><svg width="15" height="15" viewBox="0 0 256 256"><path fill="currentColor" d="M208 40H48a24 24 0 0 0-24 24v112a24 24 0 0 0 24 24h160a24 24 0 0 0 24-24V64a24 24 0 0 0-24-24m8 136a8 8 0 0 1-8 8H48a8 8 0 0 1-8-8V64a8 8 0 0 1 8-8h160a8 8 0 0 1 8 8Zm-48 48a8 8 0 0 1-8 8H96a8 8 0 0 1 0-16h64a8 8 0 0 1 8 8"/></svg>Online</div>
+   </div>
+   <div class="loc"><svg width="16" height="16" viewBox="0 0 256 256"><path fill="currentColor" d="M128 64a40 40 0 1 0 40 40a40 40 0 0 0-40-40m0 64a24 24 0 1 1 24-24a24 24 0 0 1-24 24m0-112a88.1 88.1 0 0 0-88 88c0 31.4 14.51 64.68 42 96.25a254.2 254.2 0 0 0 41.45 38.3a8 8 0 0 0 9.18 0a254.2 254.2 0 0 0 41.37-38.3c27.45-31.57 42-64.85 42-96.25a88.1 88.1 0 0 0-88-88m0 206c-16.53-13-72-60.75-72-118a72 72 0 0 1 144 0c0 57.23-55.47 105-72 118"/></svg>Petaling Jaya, Selangor</div>
+   <div class="hair"></div>
+   <div class="subj">Bahasa Melayu<span class="lvl"> · Form 2</span></div>
+   <div class="meta"><svg width="15" height="15" viewBox="0 0 256 256" style="color:var(--indigo)"><path fill="currentColor" d="M208 32h-24v-8a8 8 0 0 0-16 0v8H88v-8a8 8 0 0 0-16 0v8H48a16 16 0 0 0-16 16v160a16 16 0 0 0 16 16h160a16 16 0 0 0 16-16V48a16 16 0 0 0-16-16M72 48v8a8 8 0 0 0 16 0v-8h80v8a8 8 0 0 0 16 0v-8h24v32H48V48Zm136 160H48V96h160z"/></svg><span>Wed &amp; Sat · 2:00 PM</span></div>
+   <div class="meta m2"><svg width="15" height="15" viewBox="0 0 256 256" style="color:var(--indigo)"><path fill="currentColor" d="M208 96a80 80 0 1 0-88 79.6V200H88a8 8 0 0 0 0 16h32v24a8 8 0 0 0 16 0v-24h32a8 8 0 0 0 0-16h-32v-24.4A80.11 80.11 0 0 0 208 96M64 96a64 64 0 1 1 64 64a64.07 64.07 0 0 1-64-64"/></svg><span>Female tutor preferred</span></div>
+   <div class="hair"></div>
+   <div class="foot">
+    <div></div>
+    <div class="treq">TREQ-859812 · 5h ago</div>
+   </div>
+  </div>
+ </div>
+
+ <!-- TAB BAR -->
+ <div class="tabbar">
+  <div class="tb on"><svg width="25" height="25" viewBox="0 0 256 256" style="color:var(--indigo)"><path fill="currentColor" d="M232 104a8 8 0 0 0 8-8V64a16 16 0 0 0-16-16H32a16 16 0 0 0-16 16v32a8 8 0 0 0 8 8a24 24 0 0 1 0 48a8 8 0 0 0-8 8v32a16 16 0 0 0 16 16h192a16 16 0 0 0 16-16v-32a8 8 0 0 0-8-8a24 24 0 0 1 0-48M32 167.2a40 40 0 0 0 0-78.4V64h56v128H32Zm192 0V192H104V64h120v24.8a40 40 0 0 0 0 78.4"/></svg><span class="lb">Request</span></div>
+  <div class="tb"><svg width="25" height="25" viewBox="0 0 256 256" style="color:var(--tabgrey)"><path fill="currentColor" d="M208 32h-24v-8a8 8 0 0 0-16 0v8H88v-8a8 8 0 0 0-16 0v8H48a16 16 0 0 0-16 16v160a16 16 0 0 0 16 16h160a16 16 0 0 0 16-16V48a16 16 0 0 0-16-16M72 48v8a8 8 0 0 0 16 0v-8h80v8a8 8 0 0 0 16 0v-8h24v32H48V48Zm136 160H48V96h160z"/></svg><span class="lb">Calendar</span></div>
+  <div class="tb center"><div class="fab"><svg width="26" height="26" viewBox="0 0 256 256" style="color:#fff"><path fill="currentColor" d="m219.31 108.68l-80-80a16 16 0 0 0-22.62 0l-80 80A15.87 15.87 0 0 0 32 120v96a8 8 0 0 0 8 8h64a8 8 0 0 0 8-8v-56h32v56a8 8 0 0 0 8 8h64a8 8 0 0 0 8-8v-96a15.87 15.87 0 0 0-4.69-11.32M208 208h-48v-56a8 8 0 0 0-8-8h-48a8 8 0 0 0-8 8v56H48v-88l80-80l80 80Z"/></svg></div></div>
+  <div class="tb"><svg width="25" height="25" viewBox="0 0 256 256" style="color:var(--tabgrey)"><path fill="currentColor" d="M140 128a12 12 0 1 1-12-12a12 12 0 0 1 12 12m-56-12a12 12 0 1 0 12 12a12 12 0 0 0-12-12m88 0a12 12 0 1 0 12 12a12 12 0 0 0-12-12m60 12a104 104 0 0 1-152.88 91.82l-34.05 11.35a16 16 0 0 1-20.24-20.24l11.35-34.05A104 104 0 1 1 232 128m-16 0a88 88 0 1 0-164.19 44.06a8 8 0 0 1 .66 6.54L40 216l37.4-12.47a7.9 7.9 0 0 1 2.53-.42a8 8 0 0 1 4 1.08A88 88 0 0 0 216 128"/></svg><span class="lb">News</span></div>
+  <div class="tb"><svg width="25" height="25" viewBox="0 0 256 256" style="color:var(--tabgrey)"><path fill="currentColor" d="M230.92 212c-15.23-26.33-38.7-45.21-66.09-54.16a72 72 0 1 0-73.66 0c-27.39 8.94-50.86 27.82-66.09 54.16a8 8 0 1 0 13.85 8c18.84-32.56 52.14-52 89.07-52s70.23 19.44 89.07 52a8 8 0 1 0 13.85-8M72 96a56 56 0 1 1 56 56a56.06 56.06 0 0 1-56-56"/></svg><span class="lb">Profile</span></div>
+  <div class="homebar"></div>
+ </div>
+</div>

diff --git a/site/src/content/docs/patterns/kit-composition.md b/site/src/content/docs/patterns/kit-composition.md
@@ -1,0 +1,13 @@
+---
+title: Kit composition
+description: How kit-built screens compose - canon from the tutor-requests pilot.
+---
+
+The element library is the source of truth; screens compose FROM it. The composition pilot is the [kit-built requests feed](https://stsyamilyusoff-web.github.io/sifu-redesign-preview/tutorrequests-kit.html) (locked 10-Jul-2026), and it set the canon for every kit-built screen:
+
+1. **Tabs are the kit segmented control**, even for top-level feed tabs - no underline on feeds.
+2. **Feed cards keep the mode pill; term/recurrence stays off the card** - schedule shows day + time only, the term (Long-Term / Short-Term / Weekly) lives on the detail screen.
+3. **Money leads the card**, mode pill top-right.
+4. **Canonical tokens only** - indigo `#2B2FBE`, green `#16A34A`, the pale-indigo canvas/pill and the grey ramp; no drift hexes.
+
+Screens published before the kit reconcile to it in a dedicated session; the pilot supersedes the pre-kit requests feed as the current design.

diff --git a/site/src/content/docs/program/status.md b/site/src/content/docs/program/status.md
@@ -8,7 +8,7 @@ prev: false
 
 **Still to design (7):** Home · ApplyConfirmSheet · ClockoutSuccessfully · EvaluationReportView · ProgressReportView · HelpCentre · ContactCentre
 
-**Comparisons live:** 142 frames across 45 mock files, every one side-by-side with its live capture where one exists.
+**Comparisons live:** 140 frames across 45 mock files, every one side-by-side with its live capture where one exists.
 
 Retiring screens fold into the new designs. The interactive per-stage map stays on the
 [status map](https://stsyamilyusoff-web.github.io/sifu-redesign-preview/full-map.html) until Phase 3.
